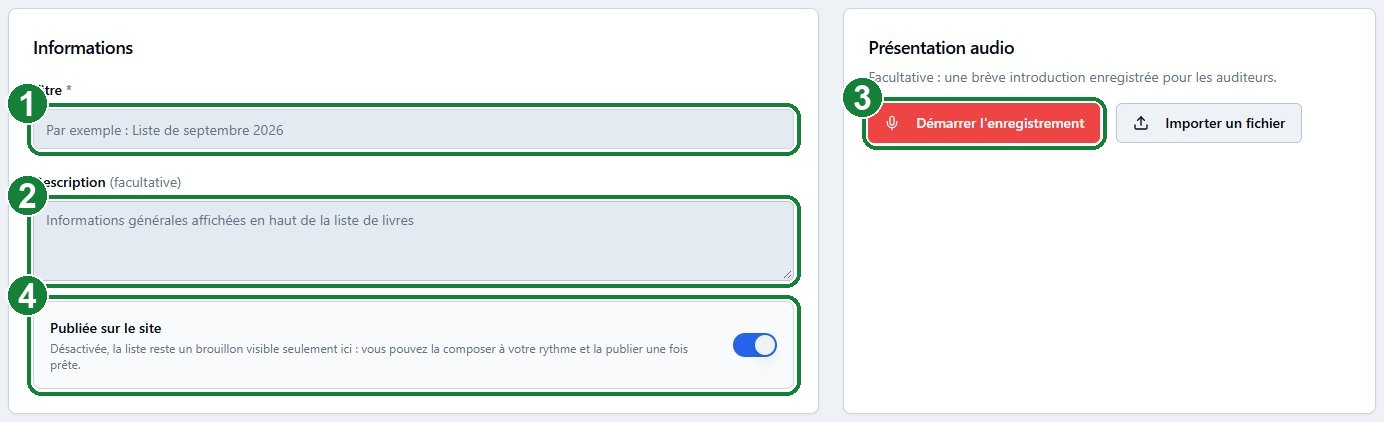
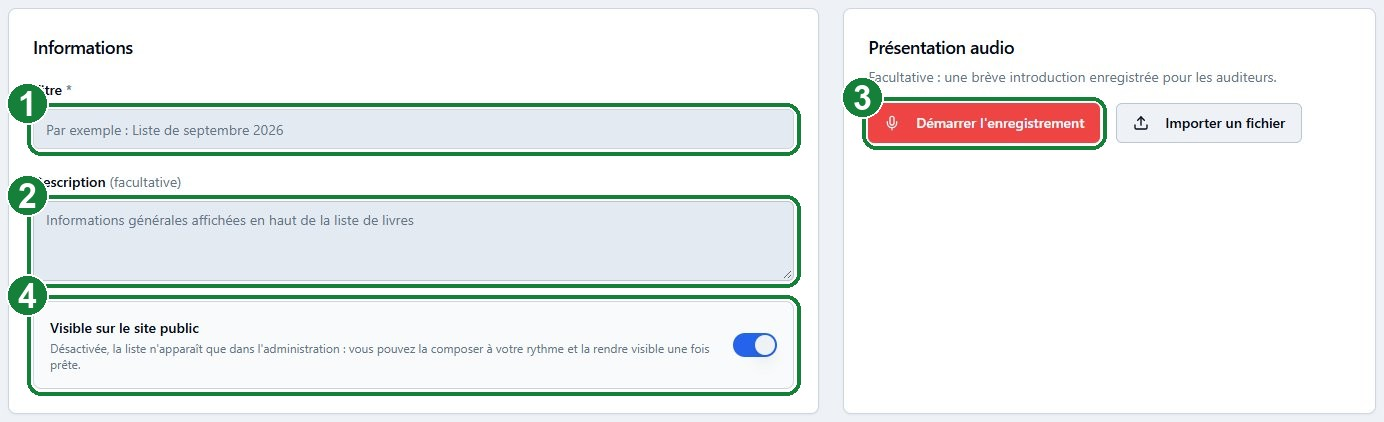
Nomme le statut des listes « Visible » / « Masquée »
« Publiée / Brouillon » et « dépubliée » décrivaient une histoire que la
liste n'a pas forcément : une ancienne liste retirée du site n'est pas un
brouillon, une liste jamais montrée n'a pas été dépubliée. L'interrupteur
devient « Visible sur le site public », les pastilles « Visible » /
« Masquée », et les avertissements qui nomment une autre liste disent
« (masquée) » — le mot du catalogue (« Masqué du catalogue public »).
Mode d'emploi et captures 01, 02, 10 mis à jour.

Changed region(s): [[0.0311, 0.7701, 0.4971, 0.8626]]

diff --git a/app/admin/listes-de-livres/components/liste-de-livres-form.tsx b/app/admin/listes-de-livres/components/liste-de-livres-form.tsx
@@ -178,7 +178,7 @@ export default function ListeDeLivresForm({ listId, createdAt, initialValues, on
                                 {isNew ? 'Nouvelle liste de livres' : 'Modifier la liste de livres'}
                             </h1>
                             {/* Pas de statut avant la création : une liste qui
-                                n'existe pas encore n'est ni publiée ni brouillon. */}
+                                n'existe pas encore n'est ni visible ni masquée. */}
                             {!isNew && <ListStatusBadge active={active} />}
                             <AideLink section="liste-de-livres" />
                         </div>
@@ -260,10 +260,10 @@ export default function ListeDeLivresForm({ listId, createdAt, initialValues, on
                             className="flex cursor-pointer items-center justify-between gap-4 rounded-lg border border-border bg-muted/30 p-4"
                         >
                             <div>
-                                <div className="text-sm font-medium text-foreground">Publiée sur le site</div>
+                                <div className="text-sm font-medium text-foreground">Visible sur le site public</div>
                                 <p className="mt-0.5 text-xs text-muted-foreground">
-                                    Désactivée, la liste reste un brouillon visible seulement ici : vous pouvez la
-                                    composer à votre rythme et la publier une fois prête.
+                                    Désactivée, la liste n&apos;apparaît que dans l&apos;administration : vous pouvez
+                                    la composer à votre rythme et la rendre visible une fois prête.
                                 </p>
                             </div>
                             <Switch id="active" checked={active} onCheckedChange={setActive} />
@@ -366,7 +366,7 @@ export default function ListeDeLivresForm({ listId, createdAt, initialValues, on
                         <AlertDialogTitle className="text-foreground">Supprimer cette liste de livres ?</AlertDialogTitle>
                         <AlertDialogDescription>
                             La liste « {initialValues.title} » sera supprimée, et retirée du site si elle y est
-                            publiée. Les livres eux-mêmes restent au catalogue. Cette action est irréversible.
+                            visible. Les livres eux-mêmes restent au catalogue. Cette action est irréversible.
                         </AlertDialogDescription>
                     </AlertDialogHeader>
                     <AlertDialogFooter>

diff --git a/app/admin/listes-de-livres/components/recent-books-picker.tsx b/app/admin/listes-de-livres/components/recent-books-picker.tsx
@@ -164,7 +164,7 @@ export function RecentBooksControl({ win, onOpen, size = 'toolbar' }: RecentBook
                     <span className="invisible">…</span>
                 ) : defaultWindow.since ? (
                     <>
-                        {/* « créée », pas « publiée » : une liste dépubliée
+                        {/* « créée », pas « visible » : une liste masquée
                             porte la coupure comme les autres. Elle est
                             signalée comme telle, sans quoi le permanent
                             chercherait en vain sur le site la liste que
@@ -172,7 +172,7 @@ export function RecentBooksControl({ win, onOpen, size = 'toolbar' }: RecentBook
                         Dernière liste
                         {defaultWindow.label ? ` « ${defaultWindow.label} »` : ''} créée le{' '}
                         {parisDate(defaultWindow.since)}
-                        {defaultWindow.active === false ? ' (dépubliée)' : ''}
+                        {defaultWindow.active === false ? ' (masquée)' : ''}
                         {sinceTouched && (
                             <>
                                 {' · '}

diff --git a/app/admin/listes-de-livres/components/list-book.tsx b/app/admin/listes-de-livres/components/list-book.tsx
@@ -60,13 +60,21 @@ export function BookBadges({
     );
 }
 
-/** Le statut d'une liste, identique dans le tableau et l'éditeur. */
+/**
+ * Le statut d'une liste, identique dans le tableau et l'éditeur.
+ *
+ * « Visible » / « Masquée » plutôt que « Publiée » / « Brouillon » ou
+ * « dépubliée » : l'interrupteur ne fait que montrer ou cacher la liste sur le
+ * site. Une ancienne liste retirée n'est pas un brouillon, et une liste jamais
+ * montrée n'a pas été « dépubliée ». C'est aussi le mot du catalogue
+ * (« Masqué du catalogue public »).
+ */
 export function ListStatusBadge({ active }: { active: boolean }) {
     return active ? (
         <span className={`${BADGE} bg-green-100 text-green-800 dark:bg-green-900/40 dark:text-green-300`}>
-            Publiée
+            Visible
         </span>
     ) : (
-        <span className={`${BADGE} bg-muted text-muted-foreground`}>Brouillon</span>
+        <span className={`${BADGE} bg-muted text-muted-foreground`}>Masquée</span>
     );
 }

diff --git a/app/admin/listes-de-livres/components/list-membership.ts b/app/admin/listes-de-livres/components/list-membership.ts
@@ -9,12 +9,12 @@ export interface ListRef {
  * L'avertissement porté par une ligne : « Déjà dans « X » ».
  *
  * Une seule liste est nommée, la plus récente — les autres se comptent. Une
- * liste dépubliée est dite dépubliée : sans quoi le permanent irait vérifier
+ * liste masquée est dite masquée : sans quoi le permanent irait vérifier
  * sur le site, n'y trouverait rien, et conclurait à une erreur.
  */
 export function membershipLabel(refs: ListRef[]): string {
     const [first, ...rest] = refs;
-    const name = `« ${first.title} »${first.active ? '' : ' (dépubliée)'}`;
+    const name = `« ${first.title} »${first.active ? '' : ' (masquée)'}`;
     if (rest.length === 0) return `Déjà dans ${name}`;
     return `Déjà dans ${name} et ${rest.length} autre${rest.length > 1 ? 's' : ''} liste${rest.length > 1 ? 's' : ''}`;
 }

diff --git a/app/admin/listes-de-livres/coups-table.tsx b/app/admin/listes-de-livres/coups-table.tsx
@@ -86,7 +86,7 @@ export function CoupsTable({ initialItems, initialSearch, totalPages }: CoupsTab
                         <AideLink section="liste-de-livres" />
                     </div>
                     <CardDescription className="text-muted-foreground mt-1">
-                        Les sélections publiées sur le site, et leurs brouillons.
+                        Les sélections de livres, visibles ou masquées sur le site public.
                     </CardDescription>
                 </div>
                 <Button asChild className="w-full sm:w-auto">

diff --git a/content/aide/05-liste-de-livres.md b/content/aide/05-liste-de-livres.md
@@ -8,7 +8,7 @@ order: 5
 
 La page « Liste de Livres » est le nouveau nom de ce qui s'appelait auparavant « Coups de Cœurs ». Il s'agit d'une liste mise à jour régulièrement qui regroupe les livres préférés du moment sélectionnés par les membres permanents ; les listes définitives et accessibles au public sont publiées dans la partie publique du site. L'URL de cette page est https://eca-aveugles.fr/admin/listes-de-livres — l'ancienne adresse /admin/manage_coups_de_coeur y redirige toujours.
 
-Sur cette page, vous pouvez (1) effectuer une recherche parmi les « Listes de livres » existantes, par leur titre ou par le titre d'un livre qu'elles contiennent. Vous pouvez (2) créer une « Nouvelle liste de livres », ou (3) ouvrir une liste existante en cliquant sur sa ligne. Chaque ligne indique si la liste est **Publiée** sur le site ou reste un **Brouillon** ; l'icône d'impression, à droite, imprime la liste sans l'ouvrir.
+Sur cette page, vous pouvez (1) effectuer une recherche parmi les « Listes de livres » existantes, par leur titre ou par le titre d'un livre qu'elles contiennent. Vous pouvez (2) créer une « Nouvelle liste de livres », ou (3) ouvrir une liste existante en cliquant sur sa ligne. Chaque ligne indique si la liste est **Visible** sur le site public ou **Masquée** ; l'icône d'impression, à droite, imprime la liste sans l'ouvrir.
 
 ![Liste de Livres - capture 1](/admin/aide/images/liste-de-livres-01.jpg)
 
@@ -16,11 +16,11 @@ Sur cette page, vous pouvez (1) effectuer une recherche parmi les « Listes de l
 
 La création et la modification d'une liste se font sur la même page, organisée en trois blocs : **Informations**, **Présentation audio** et **Livres**, suivis d'une barre d'enregistrement.
 
-Vous devez attribuer un titre à la liste (1). La description (2) est facultative, tout comme la présentation audio (3). Une ancienne permanente avait pour habitude d'enregistrer une brève explication et de lire les titres à voix haute pour les auditeurs qui ne savaient pas lire, afin qu'ils puissent savoir ce qui était populaire à l'époque aux ECA. L'interrupteur « **Publiée sur le site** » (4) décide si la liste est visible dans la partie publique du site.
+Vous devez attribuer un titre à la liste (1). La description (2) est facultative, tout comme la présentation audio (3). Une ancienne permanente avait pour habitude d'enregistrer une brève explication et de lire les titres à voix haute pour les auditeurs qui ne savaient pas lire, afin qu'ils puissent savoir ce qui était populaire à l'époque aux ECA. L'interrupteur « **Visible sur le site public** » (4) décide si la liste apparaît dans la partie publique du site.
 
 ![Liste de Livres - capture 2](/admin/aide/images/liste-de-livres-02.jpg)
 
-Cet interrupteur existe parce que la création de la liste et la mise en forme selon vos souhaits prennent sans doute du temps. Désactivé, il fait de la liste un brouillon, visible seulement dans l'administration ; une fois que tout est à votre goût, activez-le pour la « publier ». Le statut s'affiche à côté du titre de la page (« Publiée » ou « Brouillon »).
+Cet interrupteur existe parce que la création de la liste et la mise en forme selon vos souhaits prennent sans doute du temps. Désactivé, il masque la liste : elle n'apparaît que dans l'administration. Une fois que tout est à votre goût, activez-le pour la rendre visible. Il sert aussi à retirer du site une ancienne liste sans la supprimer. Le statut s'affiche à côté du titre de la page (« Visible » ou « Masquée »).
 
 ## Enregistrement pour les listes des livres
 
@@ -56,7 +56,7 @@ Pour retrouver les livres ajoutés au catalogue depuis la dernière liste, utili
 
 ![Liste de Livres - capture 10](/admin/aide/images/liste-de-livres-10.jpg)
 
-La date est proposée par défaut à celle de la **dernière liste créée — publiée ou non**, rappelée juste en dessous (« Dernière liste « … » créée le … »). Vous pouvez (1) la déplacer en cliquant dans le champ et en choisissant une autre date dans le calendrier, puis revenir à la date proposée avec « Revenir à cette date ». Cliquez ensuite sur (2) « **Voir** » : une fenêtre s'ouvre avec les nouveautés depuis cette date, **toutes décochées**. Cochez celles que vous voulez (ou « Tout cocher »), puis cliquez sur « Ajouter à la liste » : elles rejoignent la liste, en tête.
+La date est proposée par défaut à celle de la **dernière liste créée — visible ou masquée**, rappelée juste en dessous (« Dernière liste « … » créée le … »). Vous pouvez (1) la déplacer en cliquant dans le champ et en choisissant une autre date dans le calendrier, puis revenir à la date proposée avec « Revenir à cette date ». Cliquez ensuite sur (2) « **Voir** » : une fenêtre s'ouvre avec les nouveautés depuis cette date, **toutes décochées**. Cochez celles que vous voulez (ou « Tout cocher »), puis cliquez sur « Ajouter à la liste » : elles rejoignent la liste, en tête.
 
 Trois garde-fous accompagnent cette sélection :
 
